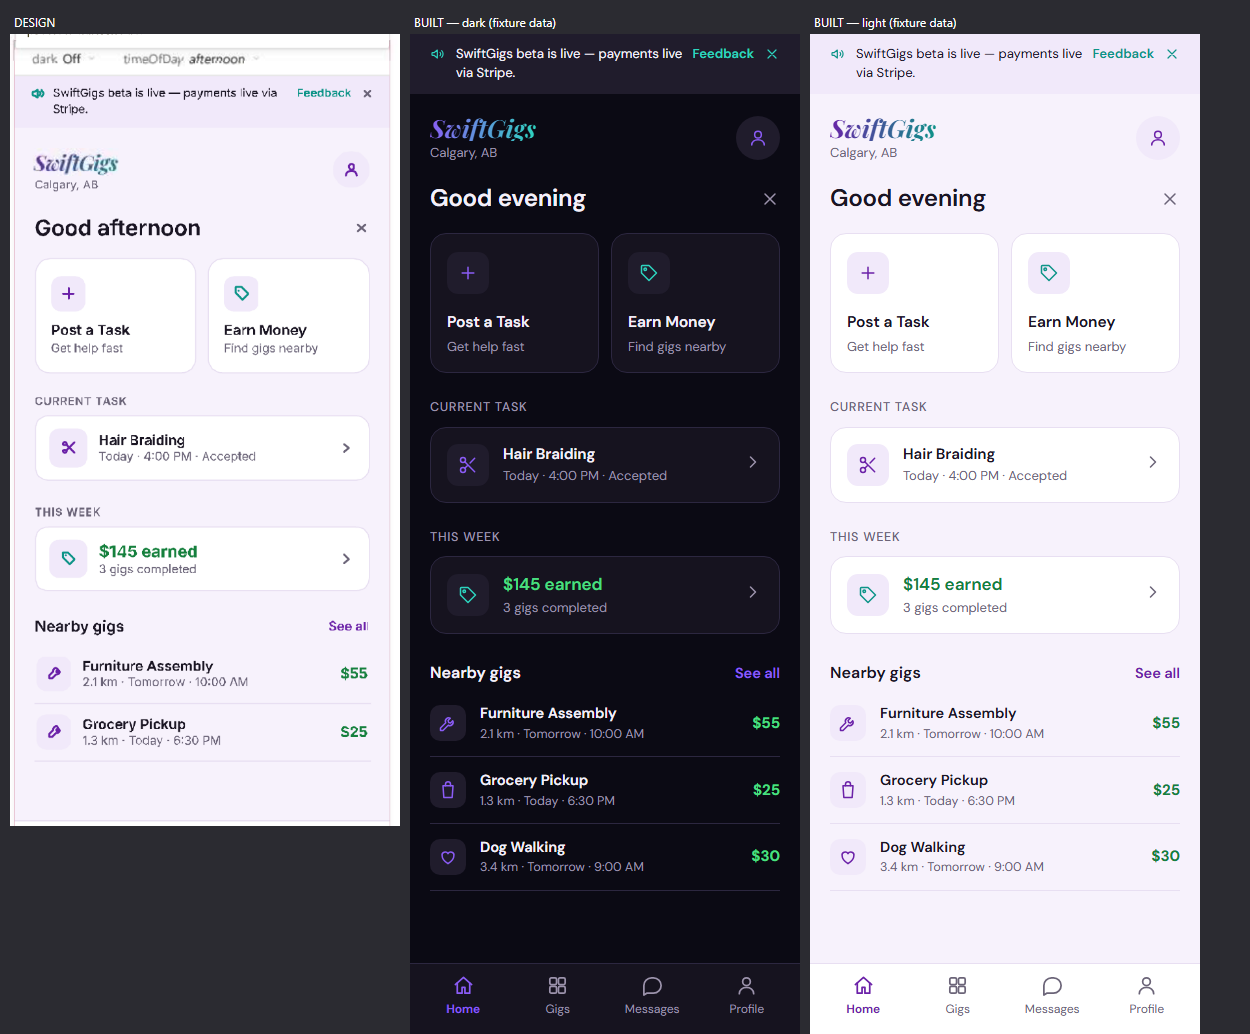
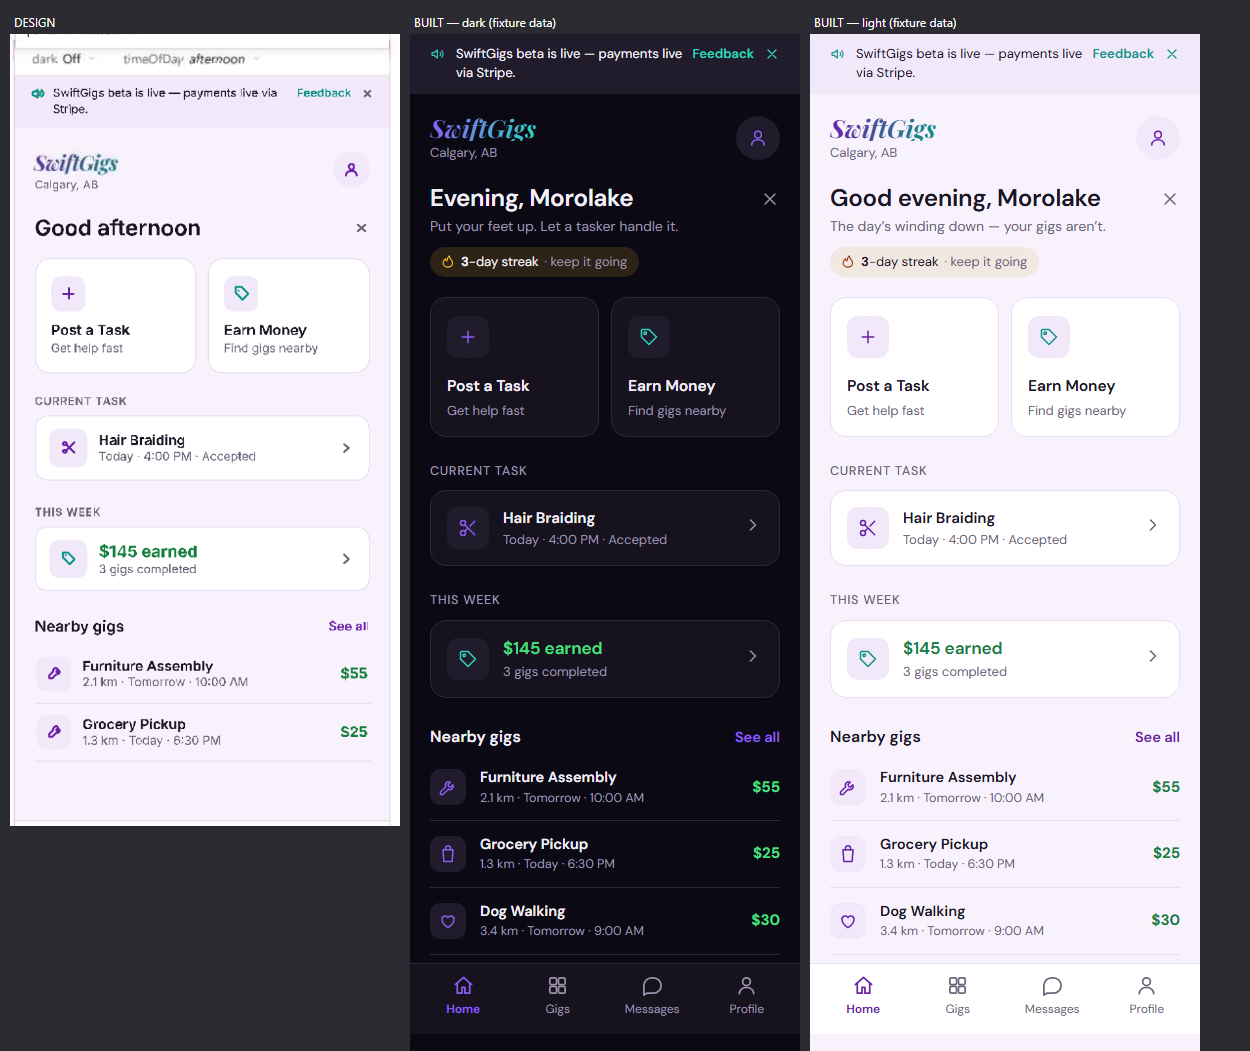
Wire the Home greeting block and retire the old streak card
The template grew a greeting section — time-of-day greeting, a light-hearted
line, and a streak pill — with a script that drives it. That script is real
behaviour rather than preview code, so it is carried into dashboard.html
verbatim, along with the .sg-greet markup it expects. The page's own greeting
renderer is gone; there is now one owner for that block.

It is wired the way the script documents. window.SG_USER is set just before the
script runs, so the first paint shows the greeting and today's real streak with
no name, and the demo values baked into the template never appear. Once auth
resolves and the first name is known, SG_paintGreeting calls SG_renderGreeting
again with the real name and count. Dismissing the greeting now hides it until
tomorrow, which is the script's behaviour, rather than for the session.

The streak count comes from the same logic that was behind the old "1 day
streak" card. That lived in qg-wave2.js, which these pages deliberately do not
load, so it is extracted into qg-streak.js using the same localStorage key and
the same stored shape — a streak started on an injector page continues here and
the other way round.

One deliberate fix in the extraction: the day boundary is local rather than UTC.
qg-wave2.js used toISOString().slice(0,10), which rolls over at 6pm in Calgary
and 5pm in BC, so an evening visit counted as the next day and could break a
streak the user had actually kept. This is the same timezone trap qg-utils.js
[…]

diff --git a/dashboard.html b/dashboard.html
@@ -31,6 +31,8 @@
 <script defer src="supabaseClient.js"></script>
 <script defer src="supabase-db.js"></script>
 <script defer src="qg-categories.js"></script>
+<!-- Visit streak, extracted from qg-wave2.js so the injector stays unloaded. -->
+<script src="qg-streak.js"></script>
 <script defer src="qg-location.js"></script>
 <script defer src="qg-age.js"></script>
 <script defer src="qg-notifications.js"></script>
@@ -45,7 +47,12 @@
     <button class="sg-round" id="sgPersonBtn" aria-label="Account menu"><svg class="i " viewBox="0 0 24 24" aria-hidden="true"><circle cx="12" cy="8" r="4"/><path d="M4.5 20.5c0-4 3.4-6.5 7.5-6.5s7.5 2.5 7.5 6.5"/></svg></button>
   </header>
   <main class="sg-body">
-    <div class="sg-title-row" style="margin-top:14px"><h1 class="sg-h1" id="sgGreeting">Good afternoon</h1><button class="sg-x" id="sgGreetClose" aria-label="Hide greeting"><svg class="i " viewBox="0 0 24 24" aria-hidden="true"><path d="M6 6l12 12M18 6L6 18"/></svg></button></div>
+    <!-- Greeting block: time-of-day greeting + a light-hearted line + streak. The x hides it until tomorrow. -->
+    <section class="sg-greet" id="sgGreetBlock">
+      <div class="sg-title-row"><h1 class="sg-h1" id="sgGreeting">Good afternoon</h1><button class="sg-x" id="sgGreetClose" aria-label="Hide greeting until tomorrow"><svg class="i " viewBox="0 0 24 24" aria-hidden="true"><path d="M6 6l12 12M18 6L6 18"/></svg></button></div>
+      <p class="sg-quip" id="sgQuip">Lunch is done. Errands aren't. We can help.</p>
+      <span class="sg-streak" id="sgStreak"><svg class="i " viewBox="0 0 24 24" aria-hidden="true"><path d="M12 21c-3.9 0-7-2.8-7-6.6 0-3.1 2.1-5.2 3.6-6.8.4 1.8 1.4 3 2.6 3.4C11 7.8 12.6 5 15 3c.2 3 1.6 4.6 2.8 6.1 1.1 1.4 2.2 3 2.2 5.3 0 3.8-3.1 6.6-8 6.6z"/></svg><span><b id="sgStreakCount">3</b>-day streak</span><span class="sg-streak-sub" id="sgStreakSub">· keep it going</span></span>
+    </section>
     <div class="sg-tiles">
       <a class="sg-card sg-tile" href="posttask.html"><span class="sg-isq"><svg class="i " viewBox="0 0 24 24" aria-hidden="true"><path d="M12 5v14M5 12h14"/></svg></span><b>Post a Task</b><span>Get help fast</span></a>
       <a class="sg-card sg-tile" href="browsetask.html"><span class="sg-isq teal"><svg class="i " viewBox="0 0 24 24" aria-hidden="true"><path d="M3 12V4a1 1 0 0 1 1-1h8l9 9-9 9-9-9z"/><circle cx="7.5" cy="7.5" r="1.5"/></svg></span><b>Earn Money</b><span>Find gigs nearby</span></a>
@@ -250,13 +257,23 @@
     else el.hidden = true;
   }
 
-  function renderGreeting() {
-    var el = document.getElementById('sgGreeting');
-    if (!el) return;
-    // The design shows the greeting alone, with no name after it.
-    var h = new Date().getHours();
-    el.textContent = h < 12 ? 'Good morning' : h < 17 ? 'Good afternoon' : 'Good evening';
+  /* The greeting, quip and streak pill are drawn by the template's own script
+     at the bottom of this page. Recording the visit has to happen before that
+     script runs so the pill shows today's count, and the name arrives later,
+     when auth resolves. */
+  function touchStreak() {
+    if (typeof window.qgTouchStreak === 'function') {
+      var data = window.qgTouchStreak();
+      return (data && data.count) || 0;
+    }
+    return typeof window.qgStreakCount === 'function' ? window.qgStreakCount() : 0;
   }
+
+  function paintGreeting() {
+    if (typeof window.SG_renderGreeting !== 'function') return;
+    window.SG_renderGreeting(window._userName || '', touchStreak());
+  }
+  window.SG_paintGreeting = paintGreeting;
 
   /* ── Current task ──
      Whichever role is active, this is the one gig in flight. The worker's comes
@@ -418,7 +435,6 @@
   }
 
   function renderAll() {
-    renderGreeting();
     renderCity();
     renderCurrentTask();
     renderWeek();
@@ -550,8 +566,9 @@
       renderNotifications();
     });
 
-    /* The beta strip and the greeting both carry a dismiss control in the
-       design, so both stay dismissed for the session. */
+    /* Beta strip only. The greeting's own dismiss button is wired by the
+       template script, which hides it until tomorrow rather than for the
+       session. */
     var beta = document.getElementById('sgBeta');
     var betaX = document.getElementById('sgBetaClose');
     if (beta && sessionStorage.getItem('sg-beta-hidden') === '1') beta.hidden = true;
@@ -559,26 +576,74 @@
       if (beta) beta.hidden = true;
       try { sessionStorage.setItem('sg-beta-hidden', '1'); } catch (e) {}
     });
-
-    var greetRow = document.querySelector('.sg-title-row');
-    var greetX = document.getElementById('sgGreetClose');
-    if (greetRow && sessionStorage.getItem('sg-greet-hidden') === '1') greetRow.hidden = true;
-    if (greetX) greetX.addEventListener('click', function () {
-      if (greetRow) greetRow.hidden = true;
-      try { sessionStorage.setItem('sg-greet-hidden', '1'); } catch (e) {}
-    });
   }
 
+  /* The template's greeting script reads this when it runs, a few lines below.
+     No name is known yet, so the first paint is the greeting without one; auth
+     fills it in afterwards. The demo values in the template never show. */
+  window.SG_USER = { firstName: '', streakDays: touchStreak() };
+
   if (document.readyState === 'loading') {
-    document.addEventListener('DOMContentLoaded', function () { wireChrome(); renderGreeting(); });
+    document.addEventListener('DOMContentLoaded', wireChrome);
   } else {
     wireChrome();
-    renderGreeting();
   }
 
   window.SG_loadDashboardData = loadDashboardData;
   window.SG_openSheet = openSheet;
   window.SG_esc = esc;
+})();
+</script>
+
+<script>
+/* KEEP THIS SCRIPT (real behaviour, not preview-only).
+   Wiring: set window.SG_USER = { firstName, streakDays } before it runs, or call SG_renderGreeting(firstName, streakDays) after data loads. */
+(function () {
+  var GREET = {
+    morning:   ['Good morning', 'Good morning', 'Rise and shine', 'Bonjour', 'Top of the morning'],
+    afternoon: ['Good afternoon', 'Good afternoon', 'Hey there', 'Howdy', 'Hiya'],
+    evening:   ['Good evening', 'Good evening', 'Bonsoir', 'Hey there', 'Evening'],
+    night:     ['Still up?', 'Up late?', 'Bonsoir', 'Hey there']
+  };
+  var QUIPS = {
+    morning: ['Coffee first. Then conquer the to-do list.', 'Early bird gets the gig.', 'Your to-do list called. It misses you.',
+              'Rise and grind — or let someone else grind for you.', 'Fresh day, fresh gigs. Let’s go.'],
+    afternoon: ['Lunch is done. Errands aren’t. We can help.', 'Afternoon slump? Outsource it.',
+                'Halfway there — let’s make the rest count.', 'Peak productivity hours, apparently.', 'Busy hands, happy wallet.'],
+    evening: ['Put your feet up. Let a tasker handle it.', 'Evening plans: absolutely nothing. Perfect.',
+              'The day’s winding down — your gigs aren’t.', 'Netflix can wait. Okay, maybe it can’t.', 'Tomorrow-you will thank today-you.'],
+    night: ['Night owl mode: activated.', 'Can’t sleep? Browse a few gigs.', 'Plan tonight, get it done tomorrow.', 'The moon is out. So are the deals.']
+  };
+  function slot(h) { return h < 5 ? 'night' : h < 12 ? 'morning' : h < 17 ? 'afternoon' : h < 22 ? 'evening' : 'night'; }
+  function pick(a) { return a[Math.floor(Math.random() * a.length)]; }
+  function today() { var d = new Date(); return d.getFullYear() + '-' + (d.getMonth() + 1) + '-' + d.getDate(); }
+  function get(k) { try { return localStorage.getItem(k); } catch (e) { return null; } }
+  function set(k, v) { try { localStorage.setItem(k, v); } catch (e) {} }
+
+  window.SG_renderGreeting = function (firstName, streakDays) {
+    var block = document.getElementById('sgGreetBlock');
+    if (!block) return;
+    if (get('sg-greet-hidden') === today()) { block.hidden = true; return; }
+    var s = slot(new Date().getHours());
+    var g = pick(GREET[s]);
+    if (firstName) g = /\?$/.test(g) ? g.slice(0, -1) + ', ' + firstName + '?' : g + ', ' + firstName;
+    document.getElementById('sgGreeting').textContent = g;
+    document.getElementById('sgQuip').textContent = pick(QUIPS[s]);
+    var streak = document.getElementById('sgStreak');
+    var n = +streakDays || 0;
+    if (n < 1) { streak.hidden = true; }
+    else {
+      streak.hidden = false;
+      document.getElementById('sgStreakCount').textContent = n;
+      document.getElementById('sgStreakSub').textContent = n === 1 ? '· come back tomorrow' : n >= 7 ? '· on fire!' : '· keep it going';
+    }
+  };
+  document.getElementById('sgGreetClose').addEventListener('click', function () {
+    set('sg-greet-hidden', today());
+    document.getElementById('sgGreetBlock').hidden = true;
+  });
+  var u = window.SG_USER || { firstName: 'Morolake', streakDays: 3 };
+  SG_renderGreeting(u.firstName, u.streakDays);
 })();
 </script>
 
@@ -628,6 +693,10 @@ onAuthStateChanged(auth, async (user) => {
 
   const name = live.displayName || (live.email ? live.email.split('@')[0] : 'there');
   window._userName = name.split(' ')[0];
+
+  // Redraw the greeting now the real first name is known. The streak pill is
+  // the only place the streak appears; the old streak card is gone.
+  if (window.SG_paintGreeting) window.SG_paintGreeting();
 
   // Unverified email gets the strip the design reserves for it.
   if (live.emailVerified === false) {

diff --git a/qg-streak.js b/qg-streak.js
@@ -1,0 +1,65 @@
+/* SwiftGigs — visit streak.
+ *
+ * Extracted from qg-wave2.js so the rebuilt pages can read the streak without
+ * loading an injector. Same localStorage key and same stored shape, so a
+ * streak started on an injector page continues here and vice versa.
+ *
+ * One deliberate difference: the day boundary is local, not UTC. qg-wave2.js
+ * used toISOString().slice(0,10), which rolls over at 6pm in Calgary and 5pm
+ * in BC, so an evening visit counted as the next day and could break a streak
+ * the user had actually kept. This is the same trap qg-utils.js documents for
+ * parseQgTimestamp.
+ */
+(function () {
+  'use strict';
+
+  var STREAK_KEY = 'qg-streak';
+
+  function localDay(d) {
+    d = d || new Date();
+    var m = String(d.getMonth() + 1);
+    var day = String(d.getDate());
+    return d.getFullYear() + '-' + (m.length < 2 ? '0' + m : m) + '-' + (day.length < 2 ? '0' + day : day);
+  }
+
+  function read() {
+    try {
+      var raw = localStorage.getItem(STREAK_KEY);
+      if (!raw) return { lastDate: '', count: 0 };
+      var p = JSON.parse(raw);
+      return p && typeof p === 'object' ? p : { lastDate: '', count: 0 };
+    } catch (e) {
+      return { lastDate: '', count: 0 };
+    }
+  }
+
+  function write(data) {
+    try { localStorage.setItem(STREAK_KEY, JSON.stringify(data)); } catch (e) {}
+  }
+
+  /* Records today's visit and returns { lastDate, count }. Safe to call more
+     than once a day: the second call is a no-op that returns the same count. */
+  window.qgTouchStreak = function () {
+    var today = localDay();
+    var data = read();
+    if (data.lastDate === today) return data;
+
+    var y = new Date();
+    y.setDate(y.getDate() - 1);
+    if (data.lastDate === localDay(y)) data.count = (data.count || 0) + 1;
+    else data.count = 1;
+
+    data.lastDate = today;
+    write(data);
+
+    if ([3, 7, 14, 30].indexOf(data.count) >= 0 && typeof window.qgCelebrate === 'function') {
+      window.qgCelebrate({ count: 40 });
+    }
+    return data;
+  };
+
+  /* Reads the count without recording a visit. */
+  window.qgStreakCount = function () {
+    return read().count || 0;
+  };
+})();

diff --git a/qg-wave2.js b/qg-wave2.js
@@ -569,12 +569,12 @@
           var recent = document.getElementById('dashRecent');
           if (recent && recent.parentNode) recent.parentNode.insertBefore(sug, recent.nextSibling);
         }
-        /* The streak pill is not on the Home design, so it is no longer
-           injected under the greeting. qgTouchStreak still runs, so the count
-           keeps accruing, and window.qgRenderStreak(hostId) will still draw it
-           into any host a screen chooses to give it. */
+        /* The streak card is retired: the streak now shows only in the Home
+           greeting pill, drawn by SG_renderGreeting from the count that
+           qg-streak.js keeps. qgTouchStreak still runs below so the count
+           accrues on injector pages too, and qgRenderStreak(hostId) is still
+           exported for anything that asks for it by name. */
         window.qgRenderRecentlyViewed('dashRecent');
-        if (document.getElementById('dashStreak')) window.qgRenderStreak('dashStreak');
         var isWorker = (typeof isWorkerMode === 'function' && isWorkerMode()) ||
           (typeof getMode === 'function' ? getMode() === 'tasker' : localStorage.getItem('qg-mode') === 'tasker' || localStorage.getItem('qg-session-mode') === 'worker');
         if (isWorker) window.qgRenderSuggested('dashSuggested');

diff --git a/scripts/layout-shot.js b/scripts/layout-shot.js
@@ -95,7 +95,8 @@ function fixtures() {
 const FIXTURE_SRC = '\n;(' + fixtures.toString() + ')();\n';
 
 const IDS = {
-  'dashboard.html': ['sgCity', 'sgGreeting', 'sgCurrentTask', 'sgWeek', 'sgNearbyList', 'sgPersonBtn', 'sgTabs']
+  'dashboard.html': ['sgCity', 'sgGreetBlock', 'sgGreeting', 'sgQuip', 'sgStreak', 'sgStreakCount',
+    'sgCurrentTask', 'sgWeek', 'sgNearbyList', 'sgPersonBtn', 'sgTabs']
 };
 
 (async () => {
@@ -121,7 +122,15 @@ const IDS = {
     });
 
     await page.addInitScript((t) => {
-      try { localStorage.setItem('qg-theme', t); } catch (e) {}
+      try {
+        localStorage.setItem('qg-theme', t);
+        // Seed a streak so the greeting pill renders through the real path.
+        var d = new Date();
+        var day = d.getFullYear() + '-' + String(d.getMonth() + 1).padStart(2, '0') +
+          '-' + String(d.getDate()).padStart(2, '0');
+        localStorage.setItem('qg-streak', JSON.stringify({ lastDate: day, count: 3 }));
+        localStorage.removeItem('sg-greet-hidden');
+      } catch (e) {}
     }, theme);
 
     await page.goto(BASE + '/' + pageName, { waitUntil: 'domcontentloaded' });

diff --git a/sg-app.css b/sg-app.css
@@ -209,6 +209,15 @@ svg.i{width:20px;height:20px;stroke:currentColor;fill:none;stroke-width:1.8;stro
 .sg-tabs a svg.i{width:23px;height:23px;}
 .sg-tabs a.on{color:var(--primary);font-weight:600;}
 
+/* ── Home greeting block ── */
+.sg-greet{margin-top:14px;}
+.sg-quip{font-size:14px;color:var(--text-muted);margin-top:4px;}
+.sg-streak{display:inline-flex;align-items:center;gap:6px;margin-top:10px;padding:6px 12px 6px 10px;border-radius:100px;
+  background:var(--attention-soft);color:var(--text);font-size:13px;}
+.sg-streak svg.i{width:15px;height:15px;color:var(--attention);}
+.sg-streak b{font-weight:700;}
+.sg-streak-sub{color:var(--text-muted);}
+
 /* ── Sheets and sub-views ──
    Where a feature has no place on a screen it moves into one of these, opened
    from a control that is in the design. Nothing is deleted. */
